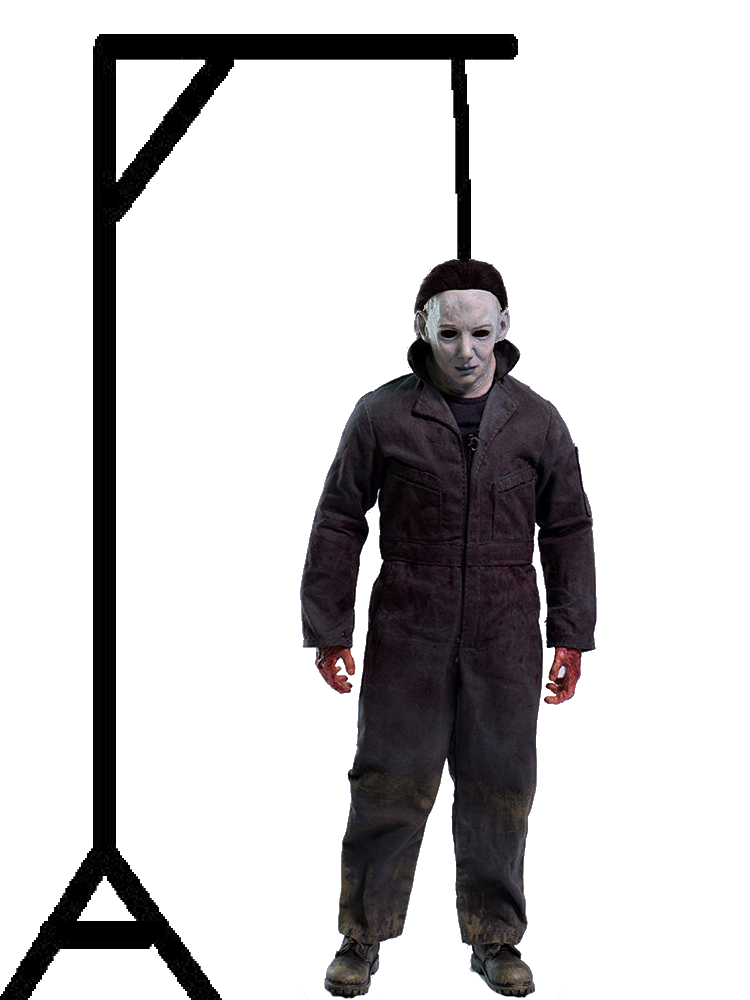
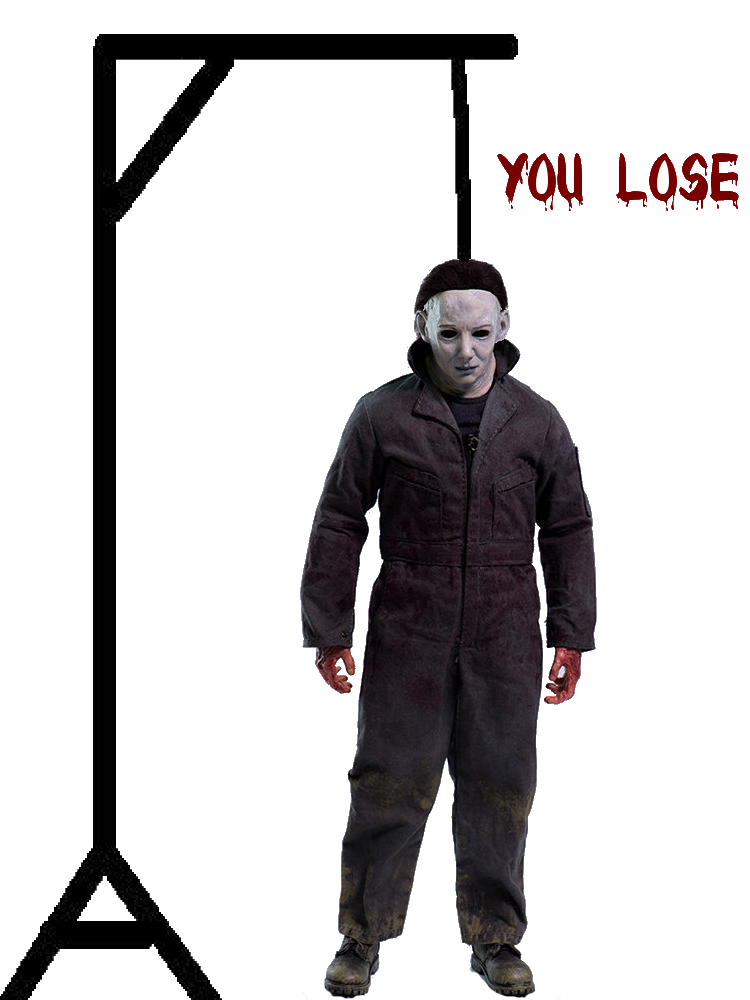
none

Changed region(s): [[0.828, 0.155, 0.9813, 0.217], [0.644, 0.155, 0.7973, 0.217]]

diff --git a/main.js b/main.js
@@ -42,7 +42,9 @@ var letterBank = [];
 
 var randomWord = [];
 
-var wrongCounter = []
+var wrongCounter = 0;
+
+
 
 // random word pick
 var randomWord = words[Math.floor(Math.random() * words.length)];
@@ -74,51 +76,89 @@ function userGuess(letter){
     console.log(letter);
     console.log(randomWord.indexOf(letter));
 // loop that cycles guessed letter through word
-if (randomWord.indexOf(letter >= 0)) {
-    for (var i = 0; i < randomWord.length; i++);{
-         if(randomWord[i] === letter){
-             randWordArray[i] = randomWord[i];  
+if (randomWord.indexOf(letter) >= 0) {
+    for (var j = 0; j < randomWord.length; j++);{
+         if(randomWord[j] === letter){
+             randWordArray[j] = letter ;  
 
  }  
- }
+ } 
 //  input correct letter in place of dash
     document.getElementById("answer").textContent = randWordArray.join("");
 }
-else {
         // wrong letter adds +1 to wrong counter
-        if (randomWord.indexOf(letter === -1)) {
+else if (randomWord.indexOf(letter) === -1) {
             wrongCounter++;
             console.log(wrongCounter);
-            console.log(letter);
 
             // display different levels of hangman with wrong answer
-           if (wrongCounter == 1) {
+            if (wrongCounter === 1) {
+                document.getElementById("mike1").style.display = "none";
                 document.getElementById("mike2").style.display = "block";
+                document.getElementById("mike3").style.display = "none";
+                document.getElementById("mike4").style.display = "none";
+                document.getElementById("mike5").style.display = "none";
+                document.getElementById("mike6").style.display = "none";
+                document.getElementById("mike7").style.display = "none";
             } 
             
-            if (wrongCounter == 2) {
+            if (wrongCounter === 2) {
+                document.getElementById("mike1").style.display = "none";
+                document.getElementById("mike2").style.display = "none";
                 document.getElementById("mike3").style.display = "block";
+                document.getElementById("mike4").style.display = "none";
+                document.getElementById("mike5").style.display = "none";
+                document.getElementById("mike6").style.display = "none";
+                document.getElementById("mike7").style.display = "none";
             } 
             
-            if (wrongCounter == 3) {
+            if (wrongCounter === 3) {
+                document.getElementById("mike1").style.display = "none";
+                document.getElementById("mike2").style.display = "none";
+                document.getElementById("mike3").style.display = "none";
                 document.getElementById("mike4").style.display = "block";
+                document.getElementById("mike5").style.display = "none";
+                document.getElementById("mike6").style.display = "none";
+                document.getElementById("mike7").style.display = "none";            
             } 
             
-            if (wrongCounter == 4) {
+            if (wrongCounter === 4) {
+                document.getElementById("mike1").style.display = "none";
+                document.getElementById("mike2").style.display = "none";
+                document.getElementById("mike3").style.display = "none";
+                document.getElementById("mike4").style.display = "none";
                 document.getElementById("mike5").style.display = "block";
+                document.getElementById("mike6").style.display = "none";
+                document.getElementById("mike7").style.display = "none";            
             } 
             
-            if (wrongCounter == 5) {
+            if (wrongCounter === 5) {
+                document.getElementById("mike1").style.display = "none";
+                document.getElementById("mike2").style.display = "none";
+                document.getElementById("mike3").style.display = "none";
+                document.getElementById("mike4").style.display = "none";
+                document.getElementById("mike5").style.display = "none";
                 document.getElementById("mike6").style.display = "block";
+                document.getElementById("mike7").style.display = "none";            
             } 
             
-            if (wrongCounter == 6) {
-                document.getElementById("mike7").style.display = "block";
+            if (wrongCounter === 6) {
+                document.getElementById("mike1").style.display = "none";
+                document.getElementById("mike2").style.display = "none";
+                document.getElementById("mike3").style.display = "none";
+                document.getElementById("mike4").style.display = "none";
+                document.getElementById("mike5").style.display = "none";
+                document.getElementById("mike6").style.display = "none";
+                document.getElementById("mike7").style.display = "block";            
             } 
+
             
 
         }
     }
+
+function newgame() {
+    location.reload();
 }
 
 

diff --git a/index.html b/index.html
@@ -19,7 +19,9 @@
       <br>  
       <!-- navbar -->
      <nav class="navbar navbar-dark bg-dark">
-         <span class="navbar-brand mb-0 h1">Hangman: Michael Myers Edition</span>
+         <span id="nav" class="navbar-brand mb-0 h1">Hangman: Michael Myers Edition</span>
+         <button class="navbar" id="nav" onclick="newgame()">New Game</button>
+
             </nav>
         </div>
         <br>
@@ -30,6 +32,7 @@
         <div id="answer" class="col-sm-6">
         
         </div>
+       
         <div class="col-sm-6">
             <img src="IMG/Mike1.png" id="mike1" style="display: block" class="mike">
             <img src="IMG/Mike2.png" id="mike2" style="display: none" class="mike">

diff --git a/main.css b/main.css
@@ -1,7 +1,7 @@
     
 
 body {
-    /* background-image: url("background.jpg"); */
+    /* background-image: url("img/background.jpg"); */
     background-color: lightgray;
     
 }
@@ -15,6 +15,12 @@ body {
     width: 375px;
     height: 500 rpx;
 }
+
+#nav {
+    color: darkred;
+}
+
+
 
 
     
